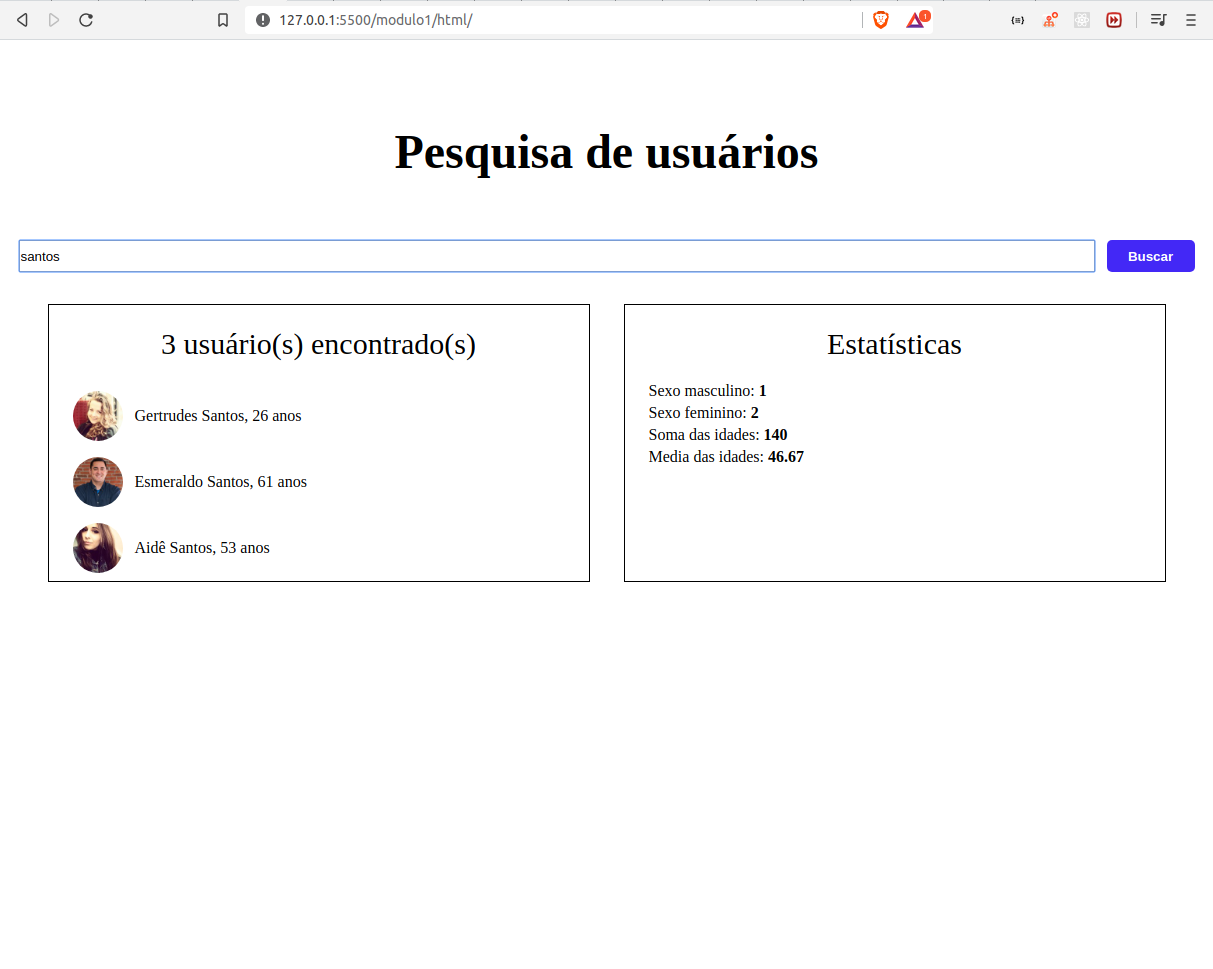
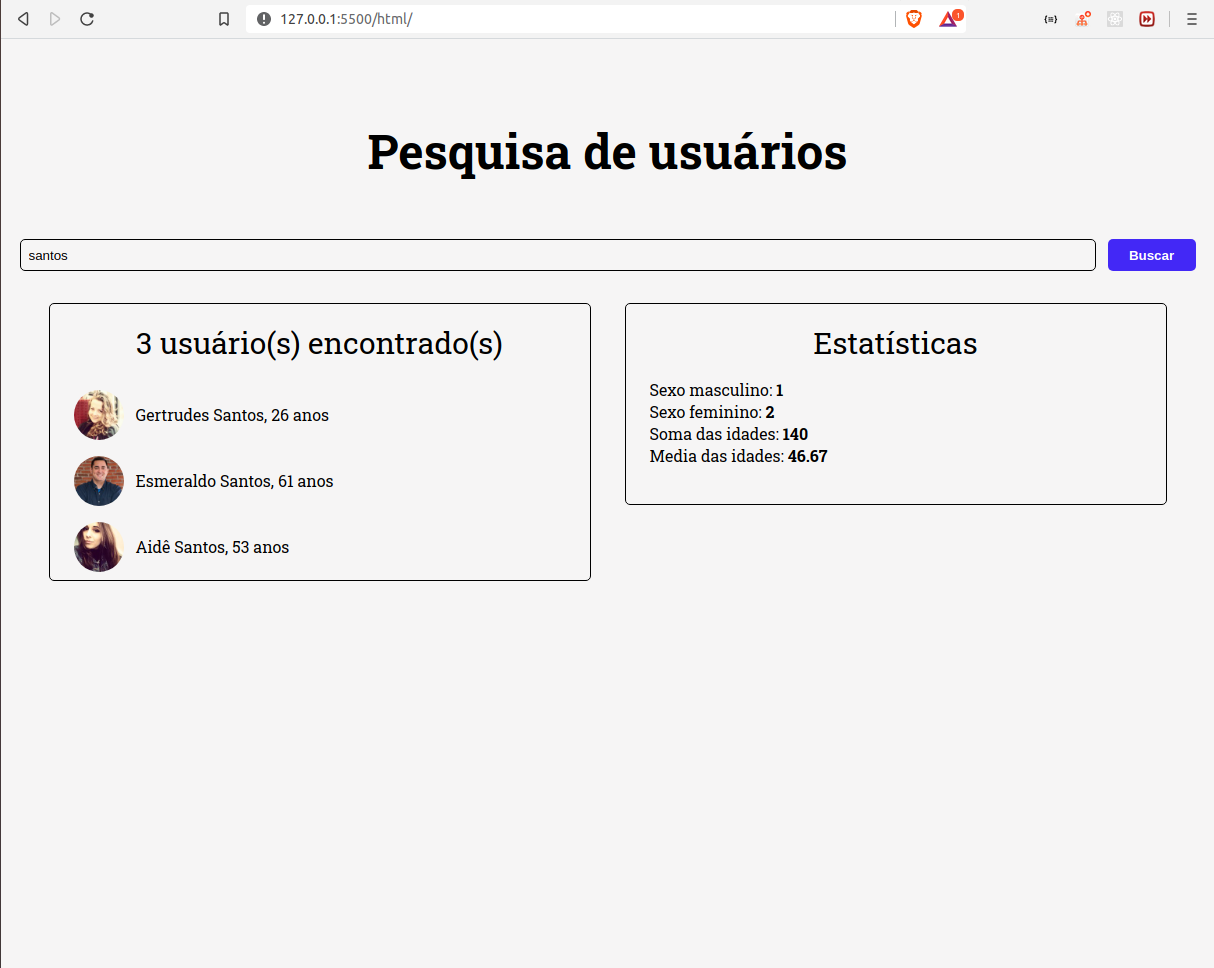
Updated: css, image to github

diff --git a/css/styles.css b/css/styles.css
@@ -3,6 +3,7 @@ body {
   max-width: 1200px;
 
   font-family: "Roboto Slab", sans-serif;
+  background-color: #f6f5f5;
 }
 
 #titulo_header {
@@ -23,6 +24,12 @@ body {
 #div_search input {
   margin-left: 12px;
   flex: 1;
+
+  background-color: transparent;
+  border: 1px solid black;
+  border-radius: 5px;
+
+  padding: 0 8px;
 }
 
 #div_search button {
@@ -55,6 +62,7 @@ body {
   margin-left: 24px;
 
   border: 1px solid black;
+  border-radius: 5px;
 }
 
 #div_list_of_users h1 {
@@ -94,11 +102,12 @@ body {
 
 #div_info_calculated {
   width: 45%;
-  max-height: 300px;
+  max-height: 200px;
 
   margin-right: 24px;
 
   border: 1px solid black;
+  border-radius: 5px;
 }
 
 #div_info_calculated h1 {
